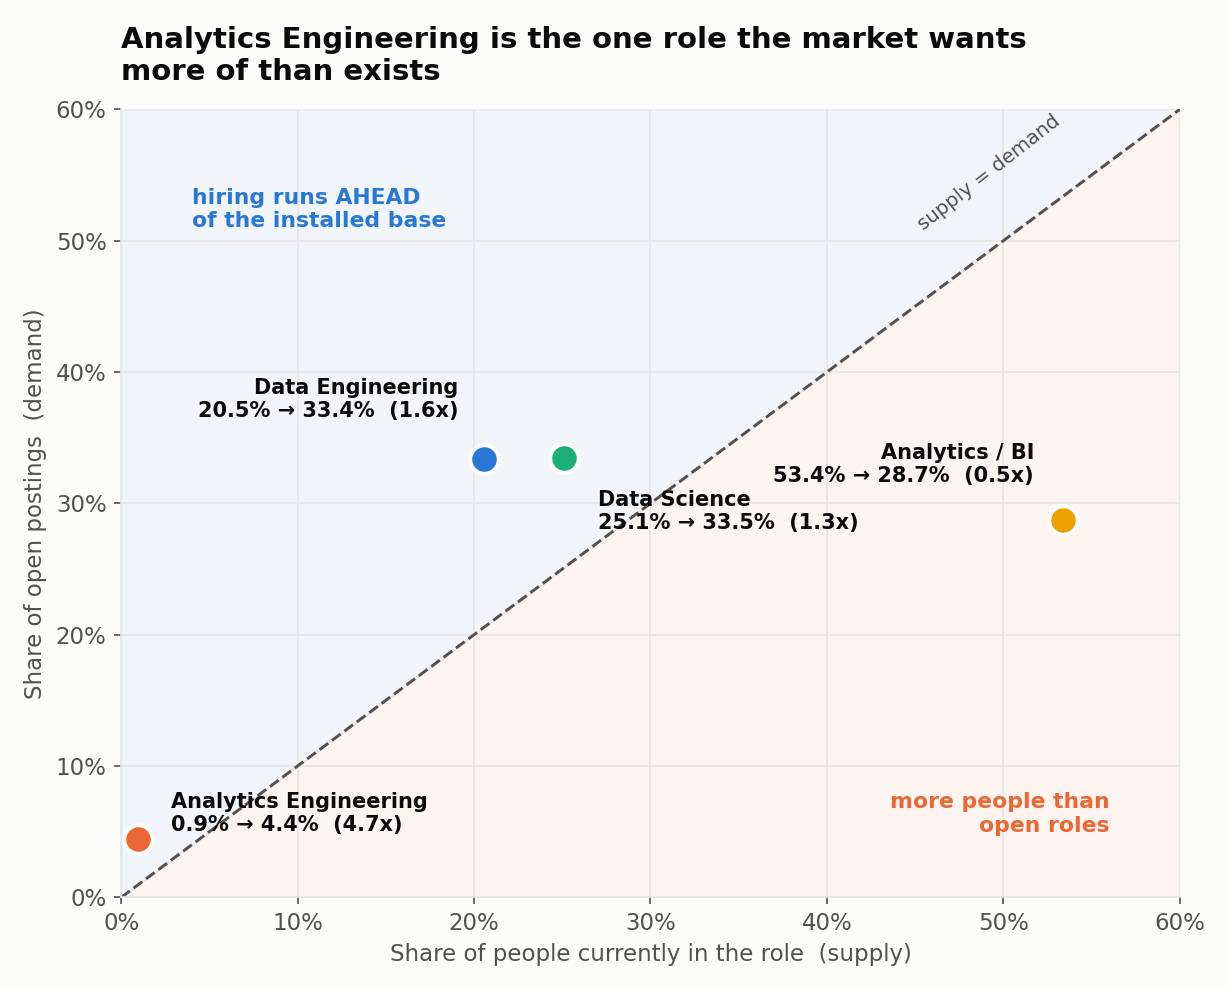
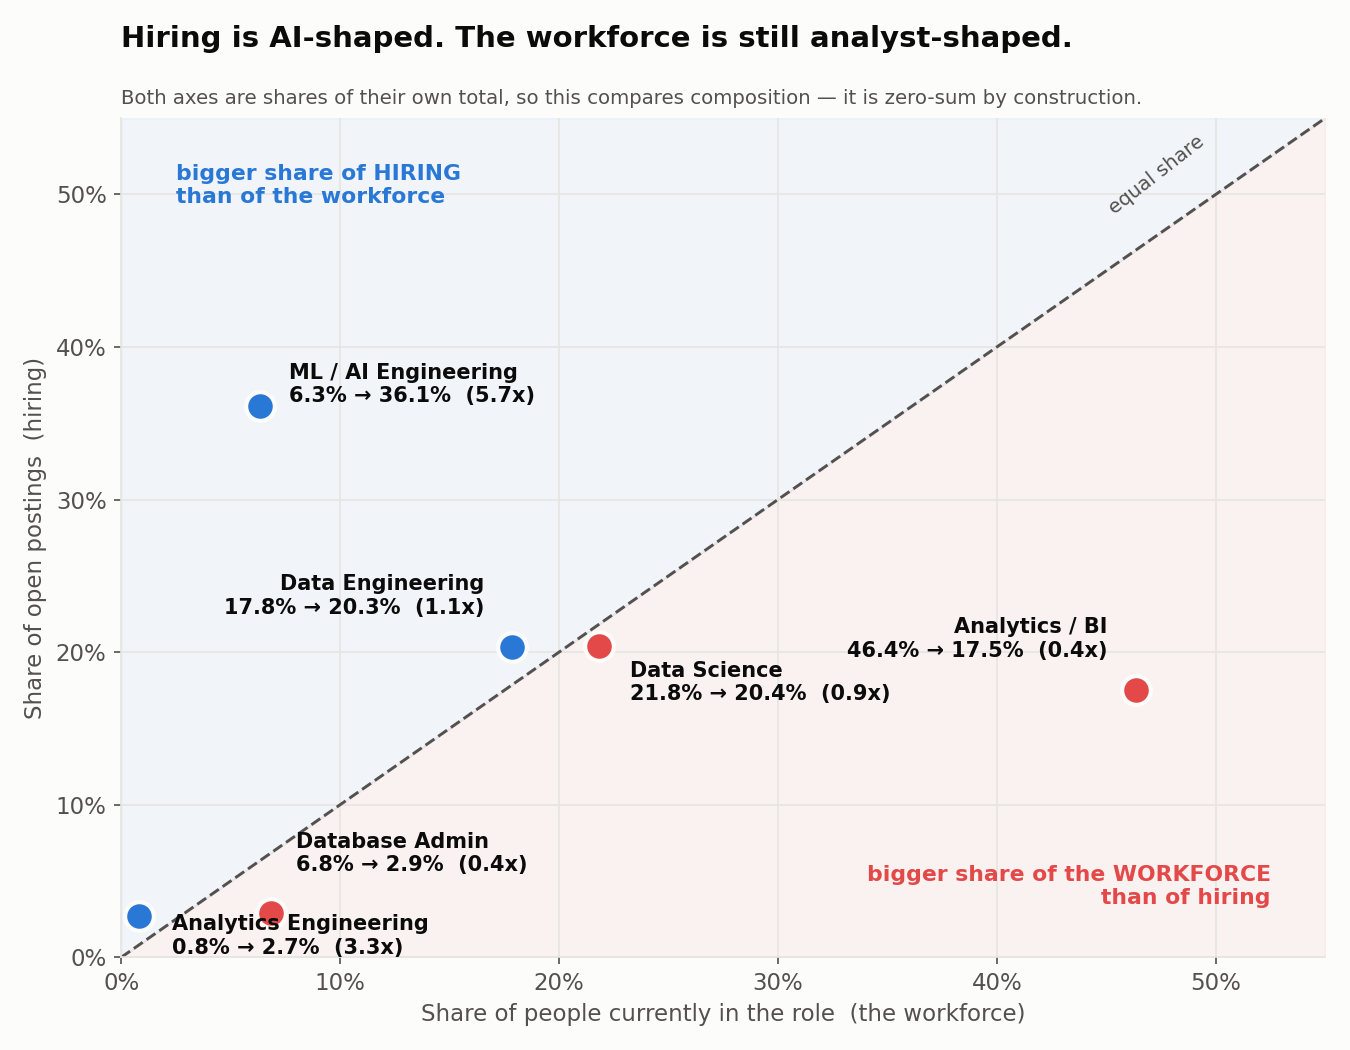
Correct Finding 3: include ML/AI Engineering in the supply/demand comparison
The supply/demand cut was built on a DE+AE+DS+BI 'core' that excluded ML/AI
Engineering -- a definition inherited from an earlier framing and left in place
after that framing was dropped. ML/AI is the single largest demand bucket in the
data space (9,177 US postings), so excluding it materially distorted the result.

- Figure 3 now covers all six practitioner buckets (adds ML/AI and Database
  Admin), consistent with the population used in Findings 1 and 2
- ML/AI Engineering is the largest gap at 5.7x (6.3% of people, 36.1% of
  postings); Analytics Engineering is second at 3.3x, not first at 4.7x
- Data Science flips to slightly below parity (0.9x); Data Engineering 1.1x
- Chart title corrected: the old one claimed AE was 'the one role the market
  wants more of than exists'. Three of four buckets were above the diagonal,
  so the claim was wrong even before ML/AI was added
- Added the compositional caveat: both axes are shares, so the comparison is
  zero-sum by construction and does not establish an absolute shortage
- Added the stock-vs-flow caveat: postings are a flow, headcount is a stock
- Quadrant labels reworded from absolute supply/demand language to share language
- LinkedIn draft rewritten to match (and scores better: 2348 -> 2640)

diff --git a/data-team-size-benchmarks/build.py b/data-team-size-benchmarks/build.py
@@ -136,41 +136,55 @@ fig.tight_layout(); fig.savefig(f"{OUT}/02_mix_by_size.png", dpi=150); plt.close
 
 # ------------------------------------------------- fig 3: supply vs demand
 dem = collections.Counter(json.load(open(DEMAND)))
-CORE = ["Data Engineering", "Analytics Engineering", "Data Science", "Analytics / BI"]
+# All practitioner buckets - the same population as figs 1-2 minus Data Leadership,
+# which is a management layer rather than a role someone is hired into as a practitioner.
+CORE = ["ML / AI Engineering", "Analytics Engineering", "Data Engineering",
+        "Data Science", "Database Admin", "Analytics / BI"]
 sc = sum(NAT[k] for k in CORE); dc = sum(dem[k] for k in CORE)
 sd = [{"role": k, "supply_pct": 100*NAT[k]/sc, "demand_pct": 100*dem[k]/dc,
        "supply_n": NAT[k], "demand_n": dem[k], "ratio": (dem[k]/dc)/(NAT[k]/sc)} for k in CORE]
+sd.sort(key=lambda r: -r["ratio"])
 with open(f"{OUT}/supply_vs_demand.csv", "w", newline="") as f:
     w = csv.DictWriter(f, fieldnames=list(sd[0].keys())); w.writeheader(); w.writerows(sd)
 
-fig, ax = plt.subplots(figsize=(8.2, 6.6))
-lim = 60
+# Diverging encoding: over-hired vs over-supplied relative to the diagonal.
+# (Two hues + direct labels, so the all-pairs CVD cap on categorical scatters does not bite.)
+OVER, UNDER = "#2a78d6", "#e34948"
+fig, ax = plt.subplots(figsize=(9.0, 7.0))
+lim = 55
 ax.plot([0, lim], [0, lim], color=INK2, lw=1.4, ls="--", zorder=2)
-ax.text(lim*0.82, lim*0.82+1.6, "supply = demand", color=INK2, fontsize=9.5, rotation=38, ha="center")
-ax.fill_between([0, lim], [0, lim], [lim, lim], color="#2a78d6", alpha=0.05, zorder=1)
-ax.fill_between([0, lim], [0, 0], [0, lim], color="#eb6834", alpha=0.05, zorder=1)
-ax.text(4, lim-6, "hiring runs AHEAD\nof the installed base", color="#2a78d6",
+ax.text(lim*0.86, lim*0.86+1.4, "equal share", color=INK2, fontsize=9.5, rotation=38, ha="center")
+ax.fill_between([0, lim], [0, lim], [lim, lim], color=OVER, alpha=0.05, zorder=1)
+ax.fill_between([0, lim], [0, 0], [0, lim], color=UNDER, alpha=0.05, zorder=1)
+ax.text(2.5, lim-3, "bigger share of HIRING\nthan of the workforce", color=OVER,
         fontsize=10.5, fontweight="bold", va="top")
-ax.text(lim-4, 5, "more people than\nopen roles", color="#eb6834", fontsize=10.5,
-        fontweight="bold", ha="right")
-OFF = {"Data Engineering":       ((-12,  20), "right"),
-       "Data Science":           (( 16, -34), "left"),
-       "Analytics / BI":         ((-14,  18), "right"),
-       "Analytics Engineering":  (( 16,   4), "left")}
+ax.text(lim-2.5, 3.5, "bigger share of the WORKFORCE\nthan of hiring", color=UNDER,
+        fontsize=10.5, fontweight="bold", ha="right")
+
+OFF = {"ML / AI Engineering":     (( 14,   2), "left"),
+       "Analytics Engineering":   (( 16, -18), "left"),
+       "Data Engineering":        ((-13,  16), "right"),
+       "Data Science":            (( 15, -26), "left"),
+       "Database Admin":          (( 12,  20), "left"),
+       "Analytics / BI":          ((-14,  16), "right")}
 for r in sd:
-    ax.scatter(r["supply_pct"], r["demand_pct"], s=190, color=C[r["role"]],
+    col = OVER if r["ratio"] >= 1 else UNDER
+    ax.scatter(r["supply_pct"], r["demand_pct"], s=190, color=col,
                edgecolor="#fcfcfb", linewidth=2, zorder=5)
     off, ha = OFF[r["role"]]
     ax.annotate(f"{r['role']}\n{r['supply_pct']:.1f}% → {r['demand_pct']:.1f}%  ({r['ratio']:.1f}x)",
                 (r["supply_pct"], r["demand_pct"]), textcoords="offset points",
                 xytext=off, ha=ha, fontsize=10, color=INK, fontweight="bold", zorder=6)
 ax.set_xlim(0, lim); ax.set_ylim(0, lim)
-ax.set_xlabel("Share of people currently in the role  (supply)")
-ax.set_ylabel("Share of open postings  (demand)")
-ax.xaxis.set_major_formatter(PercentFormatter(decimals=0)); ax.yaxis.set_major_formatter(PercentFormatter(decimals=0))
+ax.set_xlabel("Share of people currently in the role  (the workforce)")
+ax.set_ylabel("Share of open postings  (hiring)")
+ax.xaxis.set_major_formatter(PercentFormatter(decimals=0))
+ax.yaxis.set_major_formatter(PercentFormatter(decimals=0))
 ax.grid(color=GRID, zorder=0)
-ax.set_title("Analytics Engineering is the one role the market wants\nmore of than exists",
-             fontsize=14, fontweight="bold", pad=14, loc="left")
+ax.set_title("Hiring is AI-shaped. The workforce is still analyst-shaped.",
+             fontsize=14, fontweight="bold", pad=34, loc="left")
+ax.text(0, 1.017, "Both axes are shares of their own total, so this compares composition — "
+        "it is zero-sum by construction.", transform=ax.transAxes, fontsize=9.5, color=INK2)
 fig.tight_layout(); fig.savefig(f"{OUT}/03_supply_vs_demand.png", dpi=150); plt.close(fig)
 
 # ------------------------------------------------- national mix csv

diff --git a/data-team-size-benchmarks/README.md b/data-team-size-benchmarks/README.md
@@ -69,33 +69,48 @@ you look exactly like your peers. If you are a 3,000-person tech org with the sa
 are carrying an analyst-heavy org into a scale where most companies have converted to
 engineering, and the queue of ad-hoc requests is probably telling you so.
 
-## Finding 3: Analytics Engineering is the market's biggest supply gap
+## Finding 3: hiring is AI-shaped, the workforce is still analyst-shaped
 
-Comparing the **installed base** (what people currently do) against **open postings** (what
-employers are trying to hire) puts every role on the same axes.
+Put the **workforce** (what people currently do) against **open postings** (what employers are
+trying to hire) and every role lands on the same axes.
 
-![Supply versus demand by data role. Analytics Engineering sits far above the diagonal at 0.9% supply and 4.4% demand.](03_supply_vs_demand.png)
+![Supply versus demand by data role. ML/AI Engineering sits far above the diagonal at 6.3% of people but 36.1% of postings; Analytics/BI sits far below at 46.4% of people but 17.5% of postings.](03_supply_vs_demand.png)
 
-| Role | Share of people | Share of postings | Demand / supply |
+| Role | Share of people | Share of postings | Hiring / workforce |
 |---|---:|---:|---:|
-| Analytics Engineering | 0.9% | 4.4% | **4.7x** |
-| Data Engineering | 20.5% | 33.4% | 1.6x |
-| Data Science | 25.1% | 33.5% | 1.3x |
-| Analytics / BI | 53.4% | 28.7% | **0.5x** |
+| ML / AI Engineering | 6.3% | 36.1% | **5.7x** |
+| Analytics Engineering | 0.8% | 2.7% | **3.3x** |
+| Data Engineering | 17.8% | 20.3% | 1.1x |
+| Data Science | 21.8% | 20.4% | 0.9x |
+| Database Admin | 6.8% | 2.9% | 0.4x |
+| Analytics / BI | 46.4% | 17.5% | **0.4x** |
 
-Analytics Engineering is a rounding error in the workforce — fewer than 1 in 100 people in a
-data role hold the title — but **4.4% of open data roles**, the only role where hiring runs
-several times ahead of the people available to fill it.
+**Read this as a comparison of two mixes, not as a supply shortage.** Both columns are shares of
+their own total, so the diagonal is zero-sum by construction — if one role is over-represented in
+hiring, another must be under-represented. The finding is that the *shape* of what employers are
+buying differs sharply from the shape of who is available.
 
-Analytics / BI is the mirror image: **more than half the installed base, barely a quarter of the
-hiring.** The two facts are the same fact. The analyst-heavy shape that Finding 2 shows at small
-scale is what most of the workforce currently is, and it is not what employers are currently
-buying.
+Two roles are hired well above their share of the workforce. **ML / AI Engineering** is the
+extreme: 6.3% of people in data roles, **36.1% of open data postings**. **Analytics Engineering**
+is second at 3.3x, and is by far the smallest of the six in absolute terms — fewer than 1 in 100
+people in a data role hold the title.
 
-This is the clearest career signal in the dataset. It does not mean analyst roles are
-disappearing — 28.7% of a large market is still a lot of jobs — but the direction of travel is
-unambiguous, and the scarcest credential in the field right now is the one that sits between
-the analyst and the engineer.
+**Data Engineering and Data Science are close to parity** (1.1x and 0.9x). These are the roles
+where the workforce and the hiring market are roughly the same shape.
+
+The two on the other side are **Analytics / BI** and **Database Admin**, both at 0.4x. BI is the
+one that matters, because of its size: **it is 46% of the data workforce and 18% of the hiring.**
+
+That single row is the counterweight to everything above it. Nearly half the people in data roles
+today sit in the category employers are hiring into least, relative to its size. This is the same
+pattern Finding 2 shows across company size — BI-heavy at small scale, engineer-heavy at large —
+except here it appears as a *time* signal rather than a size one. **The market is hiring toward
+the shape that large organizations already have.**
+
+It does not mean analyst roles are disappearing. 17.5% of a large hiring market is a great many
+jobs, and the BI function is not going anywhere. But anyone reading this as a career signal
+should note that the two fastest-growing categories relative to their size are the two that sit
+between analysis and engineering.
 
 ## What this does not show
 
@@ -104,8 +119,15 @@ the analyst and the engineer.
   is roughly uniform across roles, so proportions hold up, but any absolute headcount derived
   from this data is a floor rather than an estimate.
 - **Title ≠ job.** Someone titled "Data Analyst" may be doing analytics engineering work, and
-  vice versa. The supply/demand gap in Finding 3 partly reflects titles catching up to work
-  that is already happening.
+  vice versa. The gaps in Finding 3 partly reflect titles catching up to work that is already
+  happening — especially for ML/AI, where the label moved faster than most people's profiles.
+- **Finding 3 compares two mixes, not two levels.** Both axes are shares of their own total, so
+  the comparison is zero-sum: a role above the diagonal mathematically requires another below it.
+  It says the hiring mix differs from the workforce mix. It does *not* say there is an absolute
+  shortage of any role, and the ratios would change if the set of roles compared changed.
+- **A stock is being compared to a flow.** The workforce is everyone currently in a role; postings
+  are openings advertised in a window. Roles with higher turnover or faster growth generate more
+  postings per person employed, which inflates their ratio independently of headcount growth.
 - **No causality about team effectiveness.** Nothing here says a 1-in-9 team is the *right*
   size, only that it is the normal one. A deliberately lean team and an under-resourced one look
   identical in this data.
@@ -132,7 +154,9 @@ supply and demand so the two sides are directly comparable.
 
 **Role classification.** Titles are bucketed by an ordered rule set (most specific first) into
 Data Engineering, Analytics Engineering, Data Science, Analytics / BI, ML / AI Engineering,
-Database Admin and Data Leadership. Deliberately excluded: QA/test analysts, security analysts,
+Database Admin and Data Leadership. Findings 1 and 2 use all seven. Finding 3 uses the six
+practitioner buckets, excluding Data Leadership — it is a management layer rather than a role
+people are hired into as practitioners, and posting volumes for it are not comparable. Deliberately excluded: QA/test analysts, security analysts,
 programmer-analysts, financial/clinical/supply-chain analysts, data-entry and data-governance
 roles, students, interns, and degree strings ("MS in Data Science").
 

diff --git a/data-team-size-benchmarks/linkedin-post.md b/data-team-size-benchmarks/linkedin-post.md
@@ -8,11 +8,13 @@ Data roles came in at 10.5% of the tech org overall. Split into eight size bands
 
 So team size is a ratio, not a number. What actually changes with scale is the shape.
 
-As the tech org grows, DE more than doubles as a share of the data org (11.9% to 29.1%). ML and AI roles more than double too. DS climbs. BI falls by a third (52.5% to 33.5%). Small orgs staff people who answer questions. Big orgs staff people who build the systems that answer questions.
+As the tech org grows, DE more than doubles as a share of the data org (11.9% to 29.1%). ML and AI roles more than double too. DS climbs. BI falls by a third (52.5% to 33.5%).
 
-The sharpest finding was on the supply side. AE — Analytics Engineering — is 0.9% of people currently in data roles, but 4.4% of open data postings. It is the only role where hiring runs several times ahead of the people available to fill it. BI is the mirror image: half the installed base, a quarter of the hiring.
+Then we put the workforce next to open postings, and the mix employers are buying looks nothing like the mix that exists. ML and AI roles are 6% of people in data jobs but 36% of postings. AE is 0.8% of people and 2.7% of postings. DE and DS sit near parity. BI is 46% of the workforce and 18% of the hiring.
 
-Most of the workforce is shaped like what companies used to buy.
+Both columns are shares, so this is zero-sum by construction and somebody has to come out under-weighted. But the direction is hard to miss. Nearly half the data workforce sits in the category being hired into least, relative to its size.
+
+Small orgs are BI-heavy. Large orgs are engineer-heavy. The hiring market is pointed at the large-org shape.
 
 If you are benchmarking your team, use your tech org as the denominator, not your company. Total headcount mostly measures your industry.
 
@@ -22,9 +24,15 @@ What does your data-to-tech ratio look like?
 scripts/linkedin_scoring/score.py (trained on 48 prior posts; CV R2 0.27 impressions / 0.40 engagements)
 
   v1 baseline                    impressions 1872.9   engagements 20.8
-  v2 + acronyms (DE/DS/BI/ML/AE) impressions 2348.7   engagements 27.4   <-- SHIPPED (+25% / +32%)
+  v2 + acronyms (DE/DS/BI/ML/AE) impressions 2348.7   engagements 27.4
   v3 + exclamation in hook       impressions 2347.7   engagements 27.9   (-0.0% / +1.8%, below 2% threshold; reverted)
+  v4 corrected Finding 3         impressions 2640.4   engagements 29.4   <-- SHIPPED
+
+v4 rewrote the supply/demand paragraph after ML/AI Engineering was added to the comparison:
+the earlier claim that AE was "the only role where hiring runs ahead of supply" was wrong on
+both counts (three of four buckets were above the diagonal, and ML/AI has the larger gap).
+Correcting it also scored better.
 
 Applied: no inline URLs (link goes in the first comment), no unicode bullets,
-text-only (no image), closes on a question. Stopped at v2 per diminishing-returns rule.
+text-only (no image), closes on a question.
 -->
